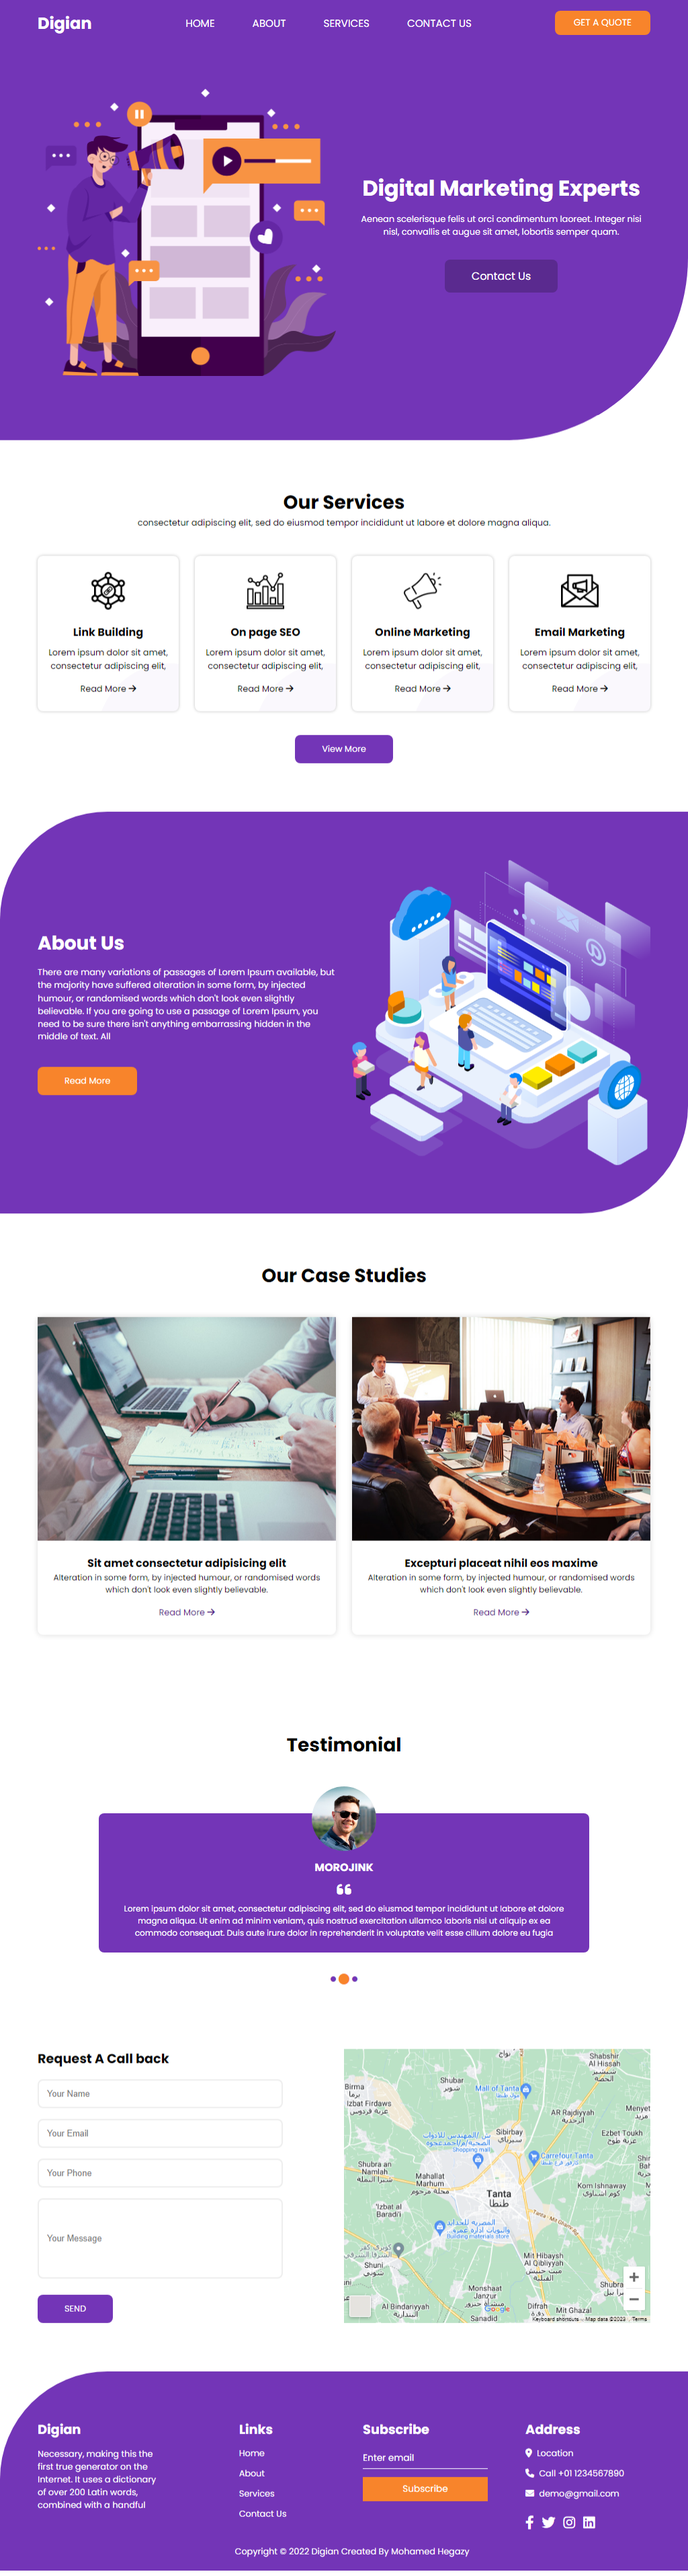
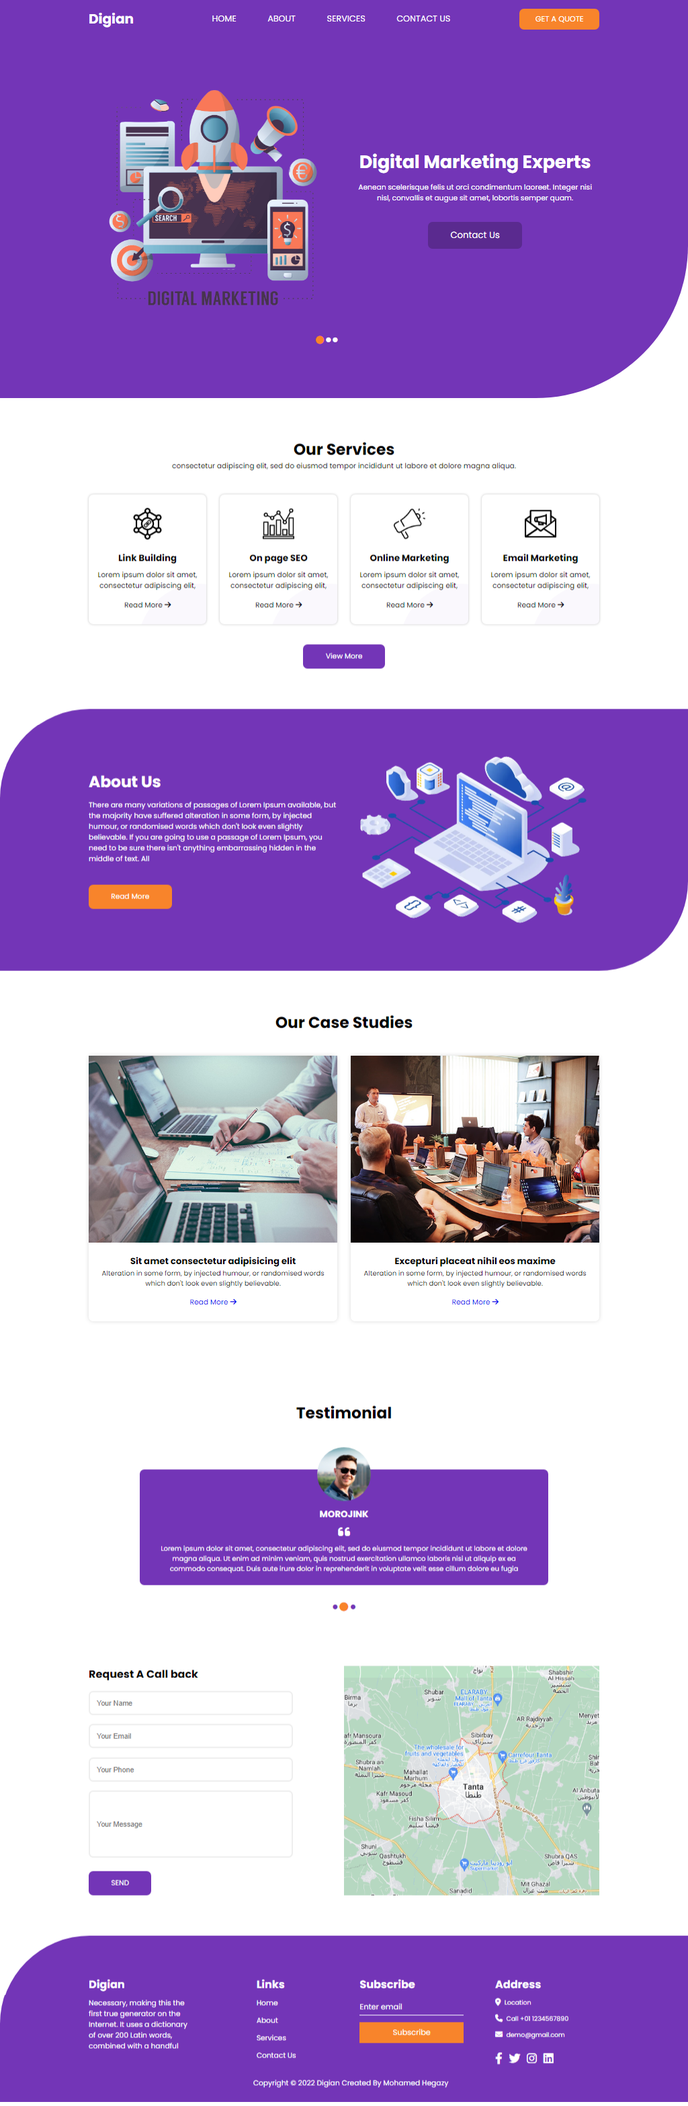
update

diff --git a/index.html b/index.html
@@ -104,7 +104,7 @@
           </p>
           <a href="#" class="btn">Read More</a>
         </div>
-        <img src="./images/about-img.png" alt="">
+        <img src="./images/about-img.webp" alt="">
       </div>
     </div>
   </section>
